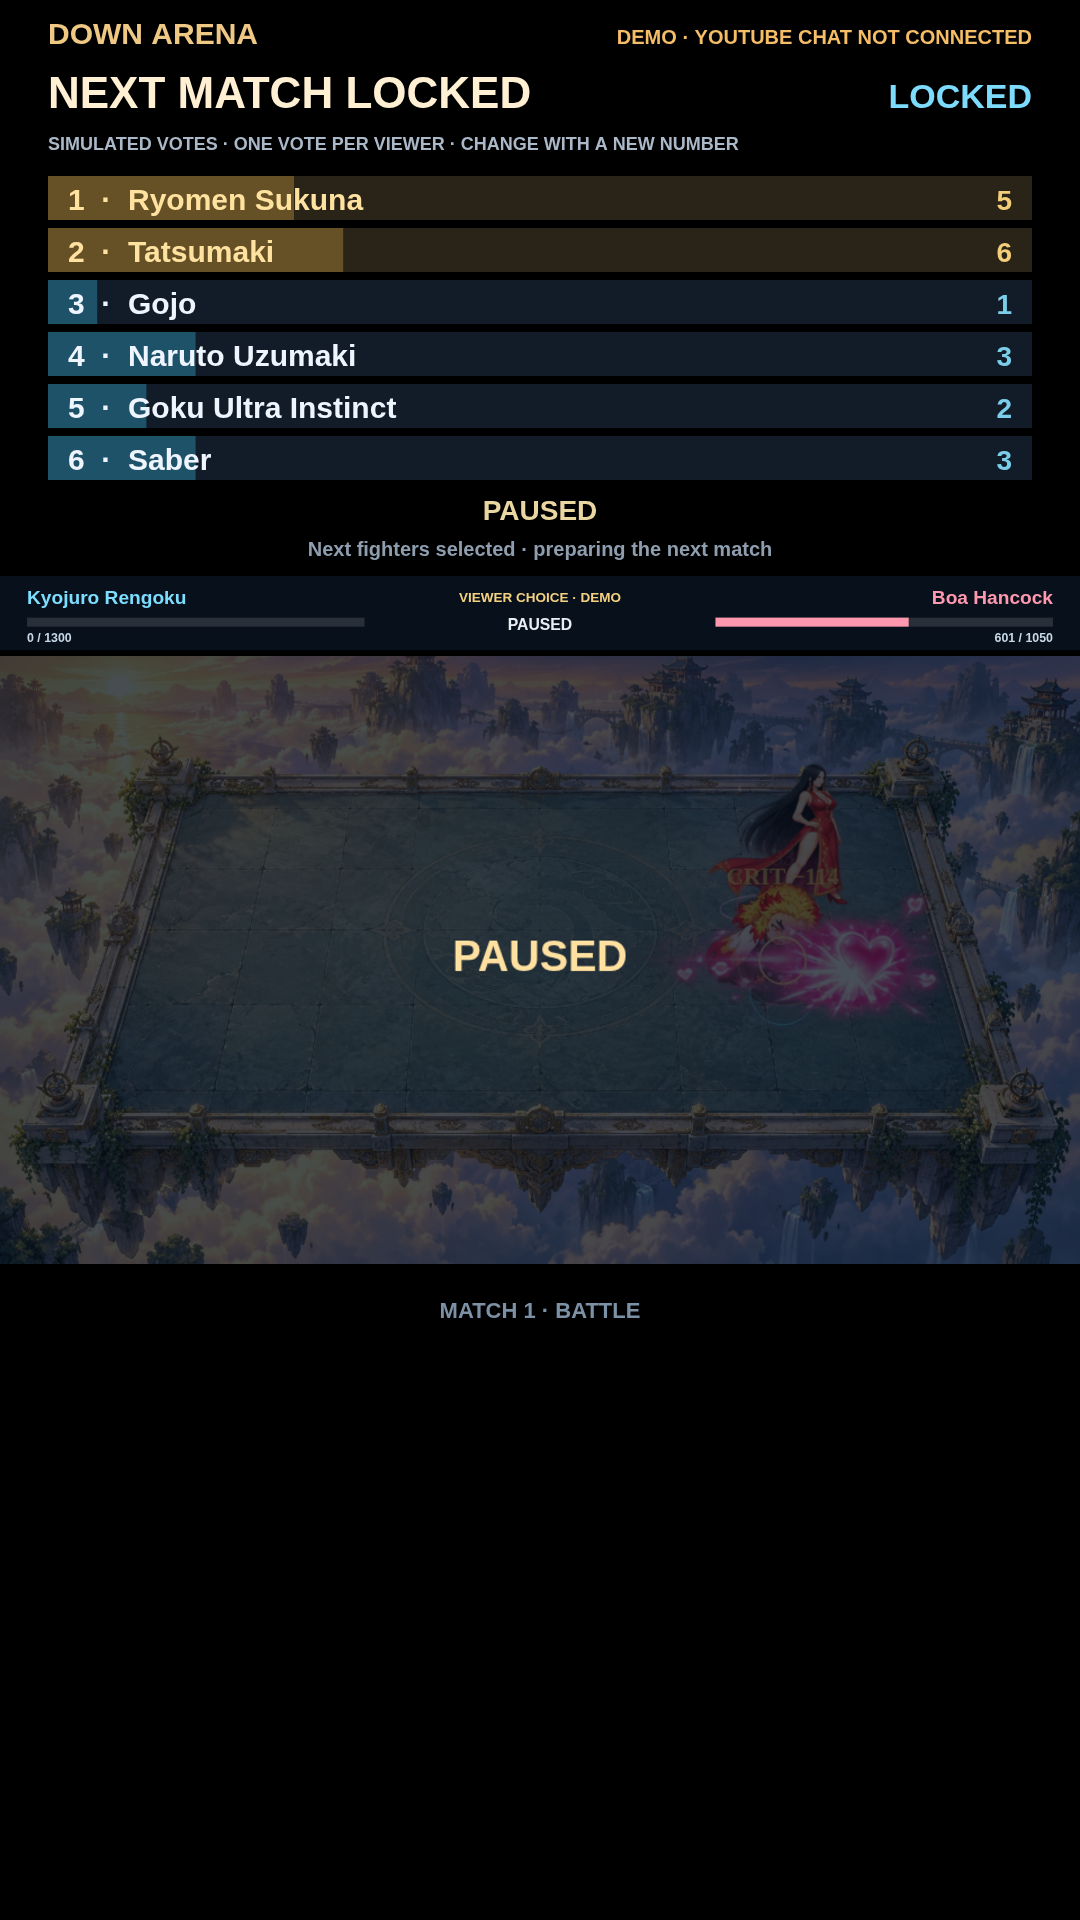
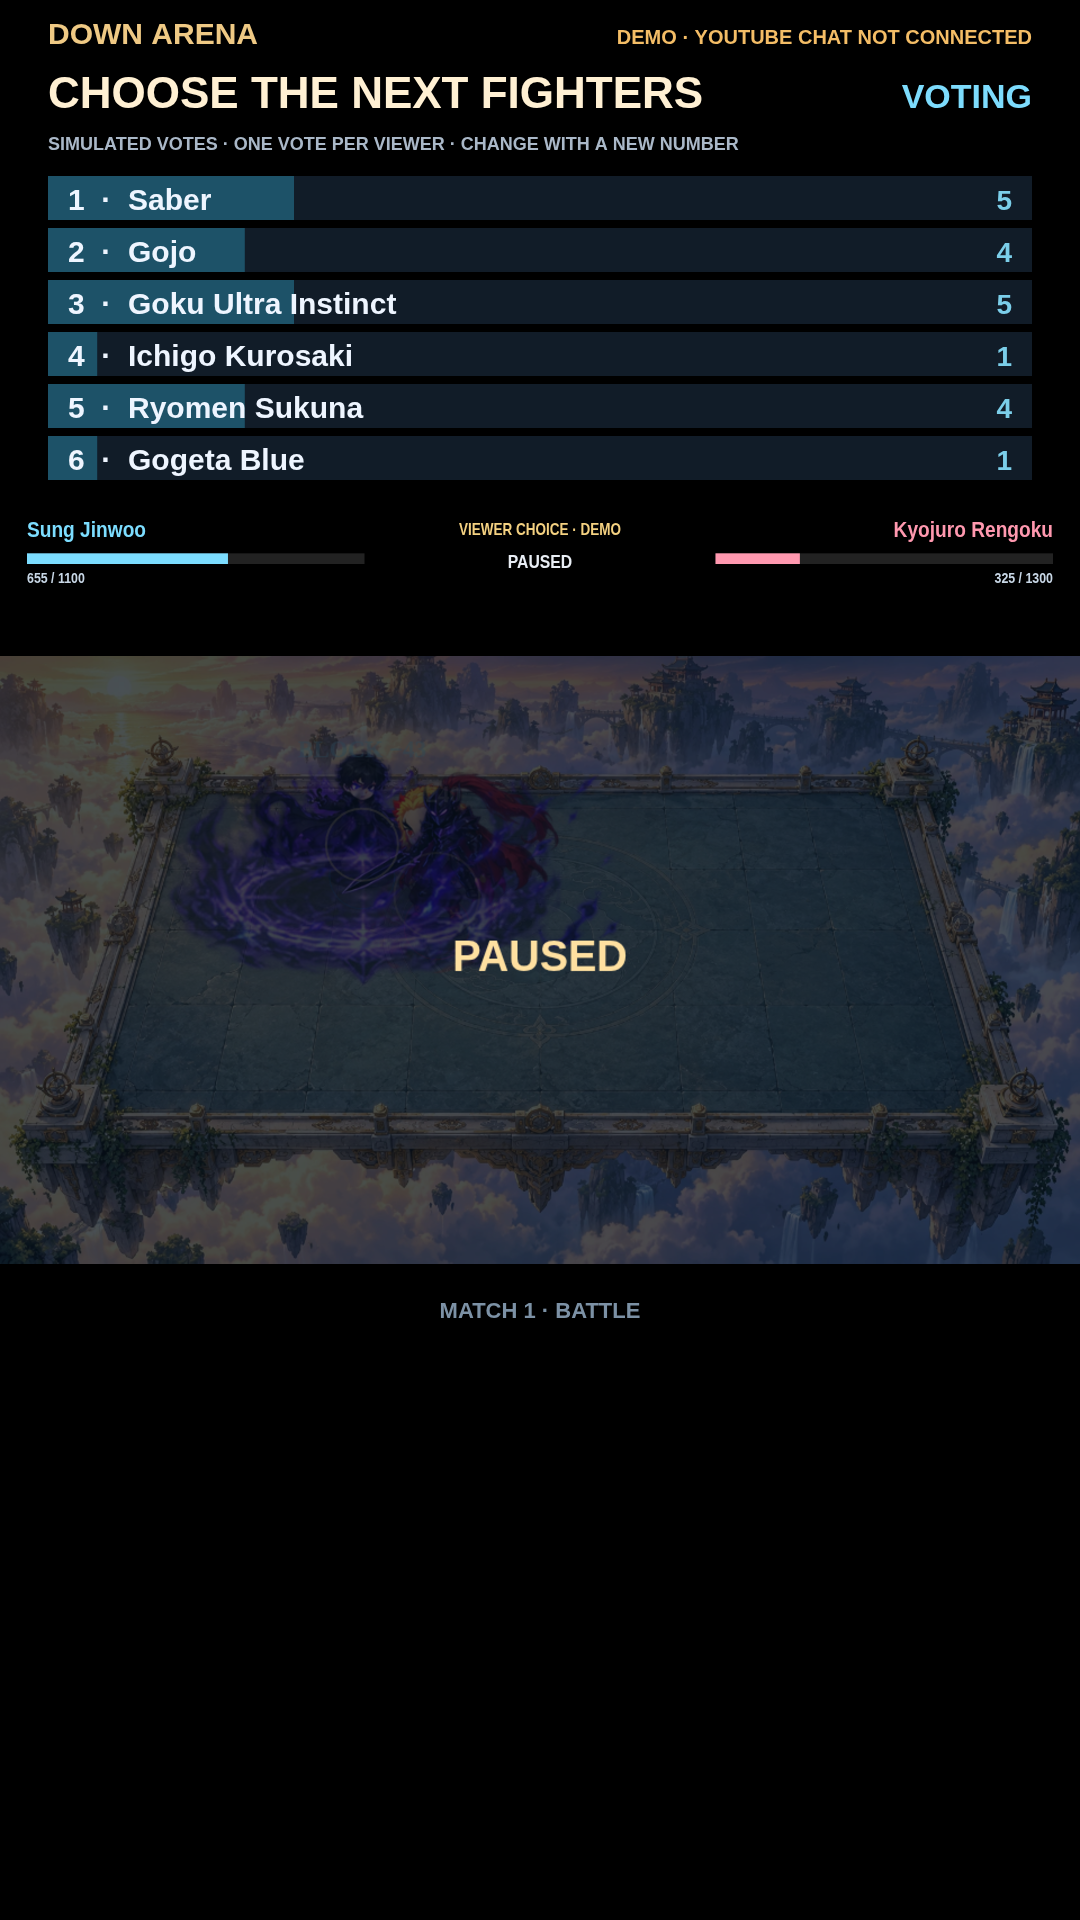
Remove voting explanation lines and detach fighter health from battle frame

diff --git a/dist/index.html b/dist/index.html
@@ -1,4 +1,4 @@
-<!doctype html><html lang="vi"><head><meta charset="utf-8"><meta name="viewport" content="width=device-width,initial-scale=1"><title>Down Arena — Ichigo</title><link rel="stylesheet" href="style.css"></head><body class="mode-home"><div id="buildVersion" style="position:fixed;right:8px;bottom:8px;z-index:999;padding:6px 10px;background:#102736;color:#74e4ff;font:12px Arial;border:1px solid #32728a;border-radius:6px">LIVE HUD OUTSIDE ARENA</div><div id="bootNotice" role="status" style="position:fixed;top:8px;left:8px;right:8px;z-index:1000;padding:12px;background:#263448;color:#fff;font:13px Arial">Đang mở đấu trường… Nếu màn hình này không đổi, hãy tải tệp về và mở bằng Chrome hoặc Edge.</div><noscript><p style="padding:20px;background:#fff;color:#111">Game cần JavaScript. Bản xem nhanh: tải HTML và mở bằng Chrome hoặc Edge. Bản đầy đủ: chạy Start_Game.cmd rồi mở địa chỉ localhost được hiển thị.</p></noscript><script>window.showArenaError=function(message){var box=document.getElementById("bootNotice");if(box){box.style.display="block";box.style.background="#6c2c25";box.textContent="Không khởi tạo được game: "+message+". Hãy tải tệp về mở bằng Chrome/Edge, hoặc gửi dòng lỗi này để sửa.";}};window.addEventListener("error",function(e){window.showArenaError(e.message||"Lỗi tải nội dung");});</script><section id="modeHome" class="mode-home-screen" aria-labelledby="modeHomeTitle">
+<!doctype html><html lang="vi"><head><meta charset="utf-8"><meta name="viewport" content="width=device-width,initial-scale=1"><title>Down Arena — Ichigo</title><link rel="stylesheet" href="style.css"></head><body class="mode-home"><div id="buildVersion" style="position:fixed;right:8px;bottom:8px;z-index:999;padding:6px 10px;background:#102736;color:#74e4ff;font:12px Arial;border:1px solid #32728a;border-radius:6px">CLEAN VOTE / DETACHED HP</div><div id="bootNotice" role="status" style="position:fixed;top:8px;left:8px;right:8px;z-index:1000;padding:12px;background:#263448;color:#fff;font:13px Arial">Đang mở đấu trường… Nếu màn hình này không đổi, hãy tải tệp về và mở bằng Chrome hoặc Edge.</div><noscript><p style="padding:20px;background:#fff;color:#111">Game cần JavaScript. Bản xem nhanh: tải HTML và mở bằng Chrome hoặc Edge. Bản đầy đủ: chạy Start_Game.cmd rồi mở địa chỉ localhost được hiển thị.</p></noscript><script>window.showArenaError=function(message){var box=document.getElementById("bootNotice");if(box){box.style.display="block";box.style.background="#6c2c25";box.textContent="Không khởi tạo được game: "+message+". Hãy tải tệp về mở bằng Chrome/Edge, hoặc gửi dòng lỗi này để sửa.";}};window.addEventListener("error",function(e){window.showArenaError(e.message||"Lỗi tải nội dung");});</script><section id="modeHome" class="mode-home-screen" aria-labelledby="modeHomeTitle">
 <div class="mode-home-content"><img class="arena-wordmark" src="assets/ui/titles/down_arena.webp" alt="Down Arena"><p class="eyebrow">DOWN ARENA · AUTO BATTLE</p><h1 id="modeHomeTitle">Chọn đấu trường<br><em>của bạn.</em></h1><p class="mode-home-copy">Tạo trận đấu, chinh phục giải đấu hoặc mở đấu trường Live liên tục.</p>
 <div id="modeChoices" class="mode-cards">
 <button id="chooseBattle" class="mode-card"><span class="mode-card-number">01 / BATTLE</span><strong>Đấu thường</strong><span>Tự chọn nhân vật, đấu đôi, tự do 2–5 người hoặc đấu đội tối đa 5vs5.</span><b>Thiết lập trận đấu →</b></button>

diff --git a/dist/src/render/viewer-vote.js b/dist/src/render/viewer-vote.js
@@ -1,4 +1,4 @@
-export const VOTE_LAYOUT=Object.freeze({width:540,height:960,hudY:288,hudHeight:40,arenaY:328,arenaHeight:540*9/16});
+export const VOTE_LAYOUT=Object.freeze({width:540,height:960,hudY:252,hudHeight:44,arenaY:328,arenaHeight:540*9/16});
 function text(ctx,value,x,y,size,color='#e9eef5',align='left',width=490){ctx.fillStyle=color;ctx.font=`600 ${size}px Segoe UI,Arial`;ctx.textAlign=align;ctx.fillText(value,x,y,width);}
 export function drawVoteBroadcast(ctx,u,scene){ctx.save();ctx.fillStyle='#000';ctx.fillRect(0,0,540,960);const v=u.ballot;
  text(ctx,'DOWN ARENA',24,22,15,'#efc984');text(ctx,'DEMO · YOUTUBE CHAT NOT CONNECTED',516,22,10,'#f4bd66','right',360);
@@ -13,14 +13,11 @@ export function drawVoteBroadcast(ctx,u,scene){ctx.save();ctx.fillStyle='#000';c
   text(ctx,`${row.number}  ·  ${row.name}`,34,y+17,15,win?'#ffe2a0':'#eef5ff','left',390);
   text(ctx,String(row.count),506,y+17,14,color,'right',55);
  }
- const status=!v?'Start Live Arena to open voting.':u.paused?'PAUSED':v?.locked?`${u.h.names[v.winners[0]]}  VS  ${u.h.names[v.winners[1]]}`:'Demo numbers preview: 1–'+rows.length+' · top two advance';
- text(ctx,status,270,260,14,'#e9d6a0','center',492);
- text(ctx,v?.locked?(u.lastDraw?'Draw: current pair rematches; voting reopens':total?'Next fighters selected · preparing the next match':'No votes: seeded random tiebreak'):'Voting closes when this battle ends · demo votes only.',270,278,10,'#8e9eaf','center',492);
- if(scene&&u.active){ctx.save();ctx.translate(0,VOTE_LAYOUT.hudY);ctx.scale(540/960,540/960);drawVoteMatchHUD(ctx,u);ctx.restore();ctx.drawImage(scene,0,VOTE_LAYOUT.arenaY,540,VOTE_LAYOUT.arenaHeight);}else text(ctx,'START LIVE ARENA',270,490,23,'#8faac0','center');
+ if(scene&&u.active){ctx.save();ctx.translate(0,VOTE_LAYOUT.hudY);ctx.scale(540/960,VOTE_LAYOUT.hudHeight/66);drawVoteMatchHUD(ctx,u);ctx.restore();ctx.drawImage(scene,0,VOTE_LAYOUT.arenaY,540,VOTE_LAYOUT.arenaHeight);}else text(ctx,'START LIVE ARENA',270,490,23,'#8faac0','center');
  text(ctx,`MATCH ${u.matchNumber||1} · ${u.phase==='waiting'?'WAITING FOR NEXT MATCH':u.phase.toUpperCase()}`,270,659,11,'#7c91a5','center',492);
  // Keep the remaining lower area black for the operator's OBS layout.
  ctx.restore();}
-export function drawVoteMatchHUD(ctx,u){ctx.save();ctx.fillStyle='#08111deb';ctx.fillRect(0,0,960,66);const fighters=u.h.duel().fighters;
+export function drawVoteMatchHUD(ctx,u){ctx.save();const fighters=u.h.duel().fighters;
  for(const [i,f] of fighters.entries()){text(ctx,u.h.names[f.id],i?936:24,25,17,i?'#ff98af':'#7cddff',i?'right':'left',340);const x=i?636:24;ctx.fillStyle='#ffffff22';ctx.fillRect(x,37,300,8);ctx.fillStyle=i?'#ff98af':'#7cddff';ctx.fillRect(x,37,300*Math.max(0,f.hp/f.max),8);text(ctx,`${Math.max(0,Math.ceil(f.hp))} / ${f.max}`,i?936:24,59,11,'#c8d7e6',i?'right':'left',300);}
  text(ctx,'VIEWER CHOICE · DEMO',480,23,12,'#f4d181','center',280);text(ctx,u.paused?'PAUSED':u.phase==='intro'?`STARTS IN ${Math.max(1,Math.ceil(5-u.age))}`:u.phase==='waiting'?'MATCH COMPLETE':'AI BATTLE',480,48,14,'#e9eef5','center',280);
  ctx.restore();}

diff --git a/docs/VIEWER_VOTE.md b/docs/VIEWER_VOTE.md
@@ -4,7 +4,7 @@ Open the game, choose **Live → Bình chọn đối thủ → Bắt đầu Live
 
 ## Layout and OBS
 
-The output canvas is1080×1920 (9:16), using540×960 logical units at2×. Six text-only candidate rows sit higher at y88–240. Voting status ends at y278; a dedicated fighter-name/HP strip occupies y288–328, outside the arena. The original960×540 horizontal battle is fitted to540×303.75 at y328, with no match HUD or foot-health bars painted over the field. The remaining lower area stays black. There are no candidate portraits.
+The output canvas is1080×1920 (9:16), using540×960 logical units at2×. Six text-only candidate rows sit higher at y88–240. The two explanatory lines below candidates are removed. Fighter names/HP sit directly on the black area at y252–296, with32logical pixels of black separation before the arena. The original960×540 horizontal battle is fitted to540×303.75 at y328, with no match HUD or foot-health bars painted over the field. The remaining lower area stays black. There are no candidate portraits.
 
 In OBS use a1080×1920 canvas and a Browser Source viewport1080×1920. Open the same game URL, select this mode and start Live. The browser output fits the portrait canvas directly. Desktop Esc opens operator controls; on a touchscreen, tap **Điều khiển**. That touch-only button is hidden on desktop capture.
 

diff --git a/PROJECT_HANDOFF.md b/PROJECT_HANDOFF.md
@@ -1,3 +1,7 @@
+## Clean voting board / detached HP
+
+Removed both explanatory lines beneath vote candidates in all ballot states. Names/HP now occupy y252–296 directly on black, with32logical px gap before arena y328; no rectangular HUD background. Demo/chat-disconnected indicators remain above candidates. Native Full HD composition retained.
+
 ## Voting feed — separate health strip
 
 Compact/move voting rows upward to logical y88–240; status at260/278. Draw name/HP HUD directly in final portrait composition at y288, outside battlefield starting y328. Scene canvas now contains only battle/pause overlay; hide duplicate foot health bars only for voteMode. Full HD1080×1920 and original field size preserved. Existing vote scheduler/UI tests pass; browser captures `docs/obs-qa/vote.png`, `vote-paused.png`, `hud-results.json`.
